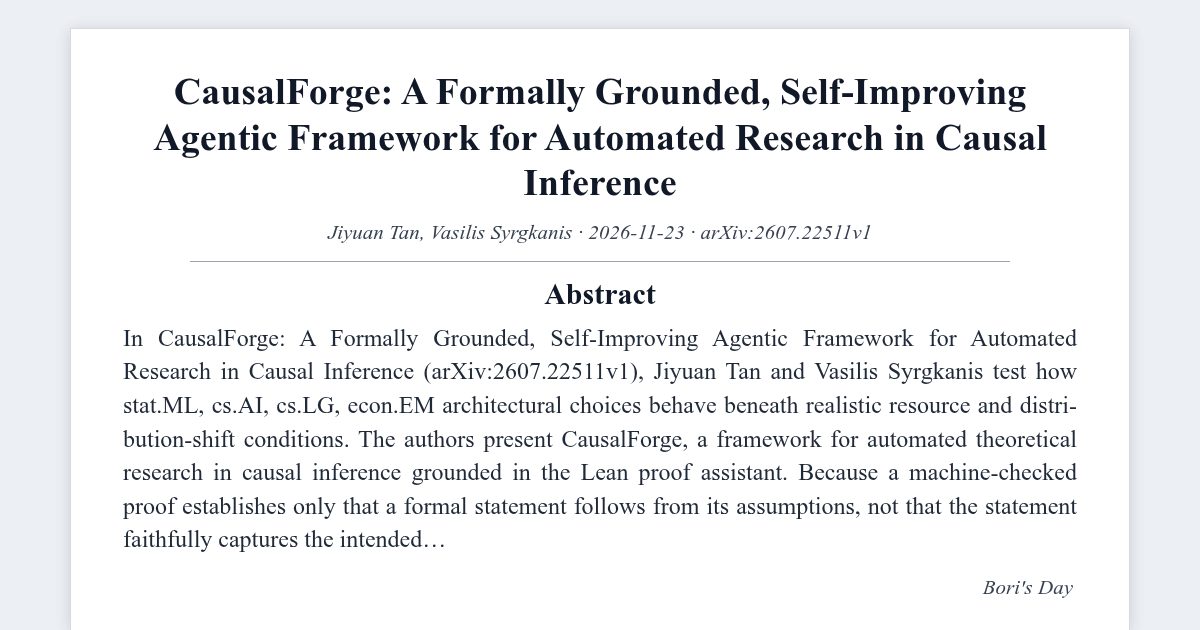
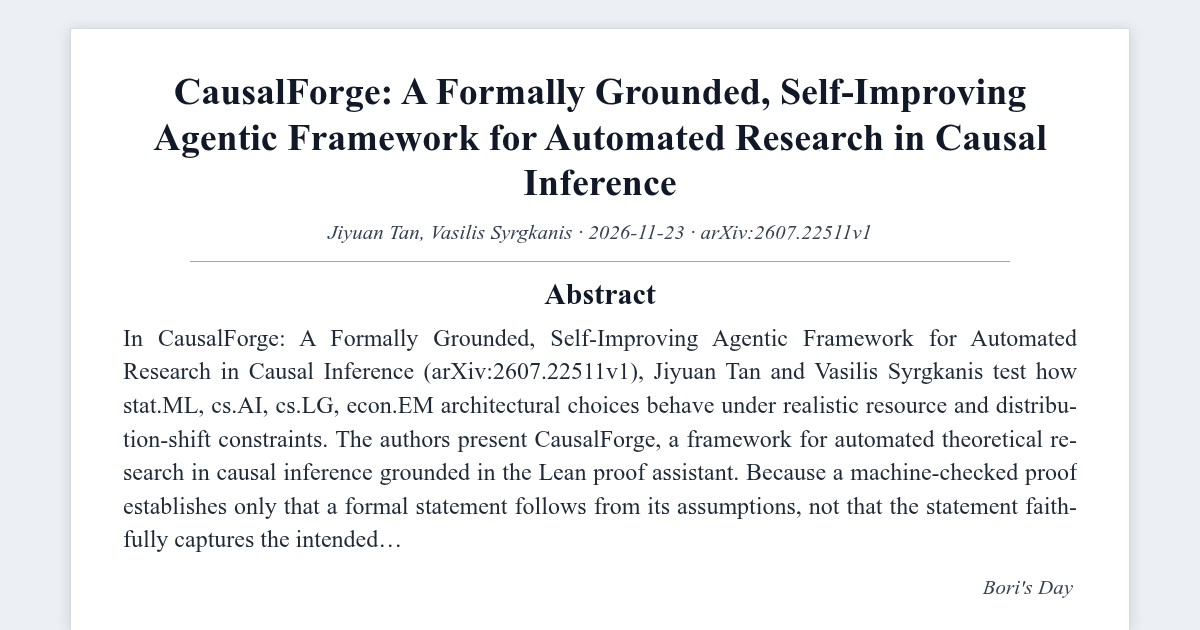
fix(blog): upgrade post & visual metadata - Paper Review: CausalForge: A Formally Grounded, Self-Improving Agentic Framework for Automated Research in Causal Inference

Changed region(s): [[0.0925, 0.6333, 0.8942, 0.8143], [0.0925, 0.8444, 0.37, 0.8746]]

diff --git a/_posts/2026-11-23-review-2607-22511v1-89ee42.md b/_posts/2026-11-23-review-2607-22511v1-89ee42.md
@@ -23,7 +23,7 @@ llm_inference: false
 generation_era: "native-llm-free"
 mscp_level: "L5"
 description: "Section-by-section source-grounded review of CausalForge: A Formally Grounded, Self-Improving Agentic Framework for Automated Research in Causal Inference (arXiv:2607.22511v1)."
-reading_time: 6
+reading_time: 8
 tags: ["paper:2607.22511v1", "paper-review", "stat-ml-cs-ai-cs-lg-econ-em", "AGI"]
 self_review_verified: true
 content_kind: paper-review
@@ -84,11 +84,11 @@ reader_visuals:
 
 ## Abstract
 
-In *CausalForge: A Formally Grounded, Self-Improving Agentic Framework for Automated Research in Causal Inference* (`arXiv:2607.22511v1`), Jiyuan Tan and Vasilis Syrgkanis test how `stat.ML, cs.AI, cs.LG, econ.EM` architectural choices behave beneath realistic resource and distribution-shift conditions. <sup class="review-citation"><a href="https://arxiv.org/html/2607.22511v1#abstract" aria-label="Source 1: Abstract">[1]</a></sup>
+In *CausalForge: A Formally Grounded, Self-Improving Agentic Framework for Automated Research in Causal Inference* (`arXiv:2607.22511v1`), Jiyuan Tan and Vasilis Syrgkanis test how `stat.ML, cs.AI, cs.LG, econ.EM` architectural choices behave under realistic resource and distribution-shift constraints. <sup class="review-citation"><a href="https://arxiv.org/html/2607.22511v1#abstract" aria-label="Source 1: Abstract">[1]</a></sup>
 
 The authors present CausalForge, a framework for automated theoretical research in causal inference grounded in the Lean proof assistant. Because a machine-checked proof establishes only that a formal statement follows from its assumptions, not that the statement faithfully captures the intended scientific claim: the pipeline augments kernel verification with a statement audit that compares each formal theorem against the informal claim it is intended to express.
 
-Checked against controlled baselines, the measured findings isolate which design steps carry genuine load beneath stress.
+Checked against controlled baselines, the empirical findings isolate which design stages carry genuine load under stress.
 
 ## 1. Motivation and Scope: Introduction
 
@@ -100,11 +100,13 @@ Formal verification provides a different basis for evaluation. When a theorem is
 
 ## 2. Conceptual Architecture: Related Work
 
-To block ambiguous umbrella terms from conflating separate operational regimes, Jiyuan Tan and Vasilis Syrgkanis ground the manuscript on clear structural definitions:
+To prevent ambiguous umbrella terms from conflating distinct operational regimes, Jiyuan Tan and Vasilis Syrgkanis ground the manuscript on explicit structural definitions:
 
-Agentic systems that carry out end-to-end research are vulnerable when an LLM judges their output, whether by independent re-evaluation or by adversarial construction. A complementary tradition grounds discovery in a hard verifier, program search against a fitness function or a proof against a kernel. Between these poles sit hypothesis-generating "co-scientist" agents that propose and refine scientific claims but validate them empirically rather than formally. <sup class="review-citation"><a href="https://arxiv.org/html/2607.22511v1#S2" aria-label="Source 5: 2 Related Work">[5]</a></sup>
+A large body of work uses language models with proof assistants, from neural proof search and early autoformalization to whole-proof generation and repair, retrieval-augmented provers, and competition-level systems. These systems are usually measured on benchmarks of known problems, including MiniF2F, ProofNet, and PutnamBench. Our setting lacks the fixed reference on which these methods rely: because the theorems are new, there is no gold statement or proof against which to evaluate them. <sup class="review-citation"><a href="https://arxiv.org/html/2607.22511v1#S2" aria-label="Source 5: 2 Related Work">[5]</a></sup>
 
-- **Two efforts are particularly closely related**: A Lean library for economics formalizes established economic theory, and a multi-agent system formalizes asymptotic statistical theory with auditor and reviewer agents that already guard against vacuity. CausalForge differs in three respects: it discovers novel results rather than formalizing known ones; it audits statement, claim matches node by node over an explicit logic graph, so a change re-opens only the affected nodes; and it grows its reusable library by promoting proved lemmas for later runs. <sup class="review-citation"><a href="https://arxiv.org/html/2607.22511v1#S2" aria-label="Source 6: 2 Related Work">[6]</a></sup>
+Agentic systems that carry out end-to-end research are vulnerable when an LLM judges their output, whether by independent re-evaluation or by adversarial construction. A complementary tradition grounds discovery in a hard verifier, program search against a fitness function or a proof against a kernel. Between these poles sit hypothesis-generating "co-scientist" agents that propose and refine scientific claims but validate them empirically rather than formally. <sup class="review-citation"><a href="https://arxiv.org/html/2607.22511v1#S2" aria-label="Source 6: 2 Related Work">[6]</a></sup>
+
+A parallel literature examines whether language models can reason causally. It divides into three strands, each treating causal reasoning as something to test or deploy rather than something to prove; recent surveys organize this work by causal task and intervention level. Benchmarks measure whether models answer causal queries or choose valid research designs, CLadder and Corr2Cause on graphical and correlational reasoning, CaLM and QRData on broad and data-grounded causal question answering, and, closest to our own domain, benchmarks that target end-to-end causal inference on real scientific studies and disentangle identification from estimation. <sup class="review-citation"><a href="https://arxiv.org/html/2607.22511v1#S2" aria-label="Source 7: 2 Related Work">[7]</a></sup>
 
 Formalizing selective consolidation and compute trade-offs, where $R_{\mathrm{proxy}}(\pi_k)$ denotes surrogate objective value at step $k$, $R_{\mathrm{true}}(\pi_k)$ denotes held-out generalization, and $N_c$ denotes active module budget:
 
@@ -114,17 +116,17 @@ $$\begin{aligned} s_c = \frac{N_c}{\sum_{j=1}^{C} N_j}, \qquad \eta_{\mathrm{com
 
 ## 3. Core Mechanisms and Methodological Trade-Offs
 
-Beginning with **Background**, Jiyuan Tan and Vasilis Syrgkanis formalize the primary linkage law and specify how its primary components interact. Causal inference concerns the consequences of intervention rather than observation alone. Two frameworks are widely used in the field: structural causal models (SCMs) and potential outcomes (PO). Lean 4 is an interactive theorem prover and programming language in which mathematics is written in a fully formal language. A definition is a term, a proposition is a type, and a proof of that proposition is a term of that type, so checking a proof reduces to type-checking a term. <sup class="review-citation"><a href="https://arxiv.org/html/2607.22511v1#S3" aria-label="Source 7: 3 Background">[7]</a></sup>
+Beginning with **Background**, Jiyuan Tan and Vasilis Syrgkanis formalize the primary mechanism and specify how its core components interact. Causal inference concerns the consequences of intervention rather than observation alone. Two frameworks are widely used in the field: structural causal models (SCMs) and potential outcomes (PO). Lean 4 is an interactive theorem prover and programming language in which mathematics is written in a fully formal language. A definition is a term, a proposition is a type, and a proof of that proposition is a term of that type, so checking a proof reduces to type-checking a term. <sup class="review-citation"><a href="https://arxiv.org/html/2607.22511v1#S3" aria-label="Source 8: 3 Background">[8]</a></sup>
 
-Advancing into **The Causalean Library**, the manuscript ties architectural choices to measured behavior over controlled operating conditions. The cost of formalizing results from first principles limits automated discovery, and Causalean supplies the reusable foundation that discovery needs. It is a foundational Lean 4 library of causal inference that gives agents verified results to compose across runs. Causalean holds paper-agnostic mathematics: the definitions and theorems any causal result might reuse. One-off lemmas of a particular paper live instead in the pipeline package, and continuous integration enforces the separation: runs read from the core freely but write back to it only through the explicit human promotion step in Section 5.4. <sup class="review-citation"><a href="https://arxiv.org/html/2607.22511v1#S4" aria-label="Source 8: 4 The Causalean Library">[8]</a></sup>
+Advancing into **The Causalean Library**, the manuscript links architectural choices to empirical behavior across controlled operating conditions. The cost of formalizing results from first principles limits automated discovery, and Causalean supplies the reusable foundation that discovery needs. It is a foundational Lean 4 library of causal inference that gives agents verified results to compose across runs. Causalean holds paper-agnostic mathematics: the definitions and theorems any causal result might reuse. One-off lemmas of a particular paper live instead in the pipeline package, and continuous integration enforces the separation: runs read from the core freely but write back to it only through the explicit human promotion step in Section 5.4. <sup class="review-citation"><a href="https://arxiv.org/html/2607.22511v1#S4" aria-label="Source 9: 4 The Causalean Library">[9]</a></sup>
 
-Within **The CausalSmith Pipeline**, Jiyuan Tan and Vasilis Syrgkanis evaluate scaling evolution, boundary conditions, and diagnostic comparisons. CausalSmith operationalizes the library within a research pipeline. There are four stages in our pipeline: Discovery, Formalization, Proof Construction, and Presentation. Essentially, CausalSmith is a deterministic state machine that executes each stage and retries failures within fixed limits. A lightweight orchestrator launches the state machine, records its verdicts, and requests human input only at a few fixed decision points. <sup class="review-citation"><a href="https://arxiv.org/html/2607.22511v1#S5" aria-label="Source 9: 5 The CausalSmith Pipeline">[9]</a></sup>
+Within **The CausalSmith Pipeline**, Jiyuan Tan and Vasilis Syrgkanis evaluate scaling dynamics, boundary constraints, and diagnostic comparisons. CausalSmith operationalizes the library within a research pipeline. There are four stages in our pipeline: Discovery, Formalization, Proof Construction, and Presentation. Essentially, CausalSmith is a deterministic state machine that executes each stage and retries failures within fixed limits. A lightweight orchestrator launches the state machine, records its verdicts, and requests human input only at a few fixed decision points. <sup class="review-citation"><a href="https://arxiv.org/html/2607.22511v1#S5" aria-label="Source 10: 5 The CausalSmith Pipeline">[10]</a></sup>
 
 ## 4. Empirical Structure and Quantitative Breakdown (2607.22511v1)
 
-Quantitative results reported in `S1.T1` of `arXiv:2607.22511v1` are consolidated in Table 1 and visualized throughout Figure 1(a)-(b): <sup class="review-citation"><a href="https://arxiv.org/html/2607.22511v1#S1.T1" aria-label="Source 10: S1.T1">[10]</a></sup>
+Quantitative results reported in `S1.T1` of `arXiv:2607.22511v1` are consolidated in Table 1 and visualized across Figure 1(a)-(b): <sup class="review-citation"><a href="https://arxiv.org/html/2607.22511v1#S1.T1" aria-label="Source 11: S1.T1">[11]</a></sup>
 
-#### Table 1. Quantitative Taxonomic Profile and Publication Velocity (`S1.T1` in `arXiv:2607.22511v1`)
+#### Table 1. Quantitative Taxonomic Distribution and Publication Velocity (`S1.T1` in `arXiv:2607.22511v1`)
 
 | System | Proposes | Machine-checked | Statement | Evaluator | Self- |
 | --- | --- | --- | --- | --- | --- |
@@ -138,19 +140,41 @@ Quantitative results reported in `S1.T1` of `arXiv:2607.22511v1` are consolidate
 
 Source: [Table S1.T1 in arXiv:2607.22511v1](https://arxiv.org/html/2607.22511v1#S1.T1)
 
-*Note.* Reported measures and column totals follow Table S1.T1 (`N = 1`).
+*Note.* Reported metrics and column totals follow Table S1.T1 (`N = 1`).
 
-Moving beyond isolated benchmarks, **Results** evaluates end-to-end integration trade-offs. The run record holds $123$ runs, distributed across three dispositions (Table 5). A run is accepted only when it is sound, novel at its requested tier, and proved to completion in Lean 4; nine runs meet this bar. <sup class="review-citation"><a href="https://arxiv.org/html/2607.22511v1#S6" aria-label="Source 11: 6 Results">[11]</a></sup>
+Extending the core mechanism, **Results** examines how the proposed design scales across downstream workloads. Our evidence is what the system produced, drawn entirely from the pipeline's run records, logs, and library index. We give the distribution of outcomes across runs, report which kinds of self-proposed question the system converts into accepted results, examine one accepted result in depth, report the axiom audit that screens each accepted result, and trace the library feedback loop closing on a concrete lemma. <sup class="review-citation"><a href="https://arxiv.org/html/2607.22511v1#S6" aria-label="Source 12: 6 Results">[12]</a></sup>
 
-Closing with **Discussion and Limitations**, Jiyuan Tan and Vasilis Syrgkanis outline remaining failure modes and future verification priorities. CausalForge separates three questions. First, the Lean 4 kernel checks that a proof is valid. <sup class="review-citation"><a href="https://arxiv.org/html/2607.22511v1#S7" aria-label="Source 12: 7 Discussion and Limitations">[12]</a></sup>
+Concluding the technical exposition, **Discussion and Limitations** weighs empirical progress against open theoretical boundaries. CausalForge separates three questions. First, the Lean 4 kernel checks that a proof is valid. <sup class="review-citation"><a href="https://arxiv.org/html/2607.22511v1#S7" aria-label="Source 13: 7 Discussion and Limitations">[13]</a></sup>
 
 ## 5. Independent Critical Evaluation and Empirical Limitations
 
-Automated theoretical research requires a reliable basis for evaluating correctness, yet LLM reviewers can be misled. We have described a causal-inference system that uses formal verification to establish proof soundness while making the limits of its other assessments explicit. A verified library reduces formalization cost; a topic-selecting, graph-audited pipeline proposes and proves results while assessing whether each statement expresses its intended claim; and a library feedback stage expands the library with lemmas required by completed runs. <sup class="review-citation"><a href="https://arxiv.org/html/2607.22511v1#S8" aria-label="Source 13: 8 Conclusion">[13]</a></sup>
+Automated theoretical research requires a reliable basis for evaluating correctness, yet LLM reviewers can be misled. We have described a causal-inference system that uses formal verification to establish proof soundness while making the limits of its other assessments explicit. A verified library reduces formalization cost; a topic-selecting, graph-audited pipeline proposes and proves results while assessing whether each statement expresses its intended claim; and a library feedback stage expands the library with lemmas required by completed runs. <sup class="review-citation"><a href="https://arxiv.org/html/2607.22511v1#S8" aria-label="Source 14: 8 Conclusion">[14]</a></sup>
 
-For reproducibility, Table 7 gives the Lean 4 declaration name and source location of each flagship result named in Section 4.3. All locations are relative to the Causalean/ package root at the pinned toolchain leanprover/lean4:v4.29.0-rc3. <sup class="review-citation"><a href="https://arxiv.org/html/2607.22511v1#S8" aria-label="Source 14: 8 Conclusion">[14]</a></sup>
+For reproducibility, Table 7 gives the Lean 4 declaration name and source location of each flagship result named in Section 4.3. All locations are relative to the Causalean/ package root at the pinned toolchain leanprover/lean4:v4.29.0-rc3. <sup class="review-citation"><a href="https://arxiv.org/html/2607.22511v1#S8" aria-label="Source 15: 8 Conclusion">[15]</a></sup>
 
-#### Table 2. Ensemble Evaluation Dimensions, Ablation Controls, and Operational Bottlenecks
+The first obstacle is cost. Formalizing a result from first principles is slow and labor-intensive. Causal inference needs a reusable library of identification theorems, estimators, and asymptotic results. Such a library lets each proof begin from verified causal infrastructure, which spares every run the work of rebuilding standard theory from scratch. <sup class="review-citation"><a href="https://arxiv.org/html/2607.22511v1#S1" aria-label="Source 17: 1 Introduction">[17]</a></sup>
+
+We instantiate this approach in causal inference through CausalForge, which has two components. Causalean is a Lean 4 library covering the causal-inference toolkit, giving agents verified primitives to compose. It was itself built with language-model assistance: humans chose what to formalize and how to state it, agents drafted the definitions, proofs, and docstrings under those decisions, and a human then reviewed the resulting Lean 4 statements. CausalSmith is a self-improving agentic pipeline that selects or accepts a research topic, proposes a result, formalizes it, proves it, and presents it. <sup class="review-citation"><a href="https://arxiv.org/html/2607.22511v1#S1" aria-label="Source 18: 1 Introduction">[18]</a></sup>
+
+Causalean, a broad Lean 4 formalization of causal inference spanning graphical and structural causal models, potential outcomes and identification, panel methods, experimentation, estimation, and statistical theory. It comprises $7{,}035$ machine-checked declarations, was written with language-model assistance under human design, and provides a retrieval interface for agents (Section 4). <sup class="review-citation"><a href="https://arxiv.org/html/2607.22511v1#S1" aria-label="Source 19: 1 Introduction">[19]</a></sup>
+
+Two efforts are particularly closely related. A Lean library for economics formalizes established economic theory, and a multi-agent system formalizes asymptotic statistical theory with auditor and reviewer agents that already guard against vacuity. CausalForge differs in three respects: it discovers novel results rather than formalizing known ones; it audits statement, claim matches node by node over an explicit logic graph, so a change re-opens only the affected nodes; and it grows its reusable library by promoting proved lemmas for later runs. Although anti-vacuity auditing is established prior art, graph-localized, incremental auditing within a self-improving discovery loop is the contribution advanced here. <sup class="review-citation"><a href="https://arxiv.org/html/2607.22511v1#S2" aria-label="Source 21: 2 Related Work">[21]</a></sup>
+
+What makes this useful as an evaluator is where the trust sits. The elaborator, the tactic language, and any model that wrote the tactics are all untrusted; only a small kernel decides whether the final term has the claimed type. When the kernel accepts a term of type $\tau$, $\tau$ is provable in Lean 4 's underlying type theory, and the kernel also reports which axioms the proof depends on. We call this property proof soundness. <sup class="review-citation"><a href="https://arxiv.org/html/2607.22511v1#S3" aria-label="Source 22: 3 Background">[22]</a></sup>
+
+The library was built with LLM assistance rather than written by hand, and the division of labor follows the trust model of Section 1. Humans set the scope, choose which results to formalize, and fix the definitions that later theorems are stated against; agents then draft the statements, proofs, and docstrings, iterating against the compiler; and a human reads the resulting Lean 4 statements before they are kept. Nothing enters the library until the kernel accepts it and it survives the same unproved-shortcut screen the pipeline applies to its own output (Section 4.5). The human then checks that the formal statement matches the intended claim and that it is stated in a standard form. <sup class="review-citation"><a href="https://arxiv.org/html/2607.22511v1#S4" aria-label="Source 23: 4 The Causalean Library">[23]</a></sup>
+
+Two smaller conventions keep the library usable by an agent: each declaration's prose lives once in its Lean 4 docstring, from which the human-readable API is regenerated, so documentation stays aligned with code; and files stay small and hold a single topic, so a retrieved declaration arrives with enough surrounding context to apply it. <sup class="review-citation"><a href="https://arxiv.org/html/2607.22511v1#S4" aria-label="Source 24: 4 The Causalean Library">[24]</a></sup>
+
+The compiled environment index records $7{,}035$ declarations: $4{,}616$ theorems, $2{,}015$ definitions, and $404$ structures, instances, and inductive types, across $973$ files and roughly $262{,}000$ lines (Table 2). 1 These repository statistics are a snapshot. The totals may increase because the CausalSmith pipeline runs continuously and can promote newly proved, reusable declarations to Causalean. Ten clusters cover the field from graphical foundations to asymptotic statistics. <sup class="review-citation"><a href="https://arxiv.org/html/2607.22511v1#S4" aria-label="Source 25: 4 The Causalean Library">[25]</a></sup>
+
+The library layers from graphical and measure-theoretic foundations up to the estimation and design methods that depend on them (Figure 1). <sup class="review-citation"><a href="https://arxiv.org/html/2607.22511v1#S4" aria-label="Source 26: 4 The Causalean Library">[26]</a></sup>
+
+Dependency graphs for proofs are established practice; Lean blueprints and proof-flow tools represent developments as DAGs of statements. CausalSmith uses the graph as both a plan and a review record. It turns the global question "is this result proved, and does the formal theorem match the intended claim?" into node-specific questions that can be revisited when the corresponding statements change. <sup class="review-citation"><a href="https://arxiv.org/html/2607.22511v1#S5" aria-label="Source 27: 5 The CausalSmith Pipeline">[27]</a></sup>
+
+Each result is stored as a graph whose nodes are statements, a setup, a definition, an assumption, a lemma, or the headline theorem, and whose edges record dependencies. A node carries its natural-language statement and its Lean 4 declaration, a review status in $\lbrace \texttt{unreviewed},\texttt{matched},\texttt{derived},\texttt{drift} \rbrace$ recording the current statement match, and a class: a gated node represents substrate missing from Causalean and must be discharged by a proof before the result can be recorded as complete, while a cited node is a borrowed result with source evidence that sits off the critical path. Assumptions carry a finer label still, claim refinement, regularity bookkeeping, or library gap, distinguishing a hypothesis that genuinely narrows the claim from one that is only technical scaffolding. Edges come in two kinds, statement-uses and proof-uses, which separate what a claim means from what its proof consumes; a validator rejects duplicate nodes and malformed dependencies. <sup class="review-citation"><a href="https://arxiv.org/html/2607.22511v1#S5" aria-label="Source 28: 5 The CausalSmith Pipeline">[28]</a></sup>
+
+#### Table 2. System Evaluation Dimensions, Ablation Controls, and Operational Bottlenecks
 
 | Evaluation Axis | Controlled Baseline | Primary Diagnostic Metric | Dominant Failure Bottleneck | Required Guardrail |
 | --- | --- | --- | --- | --- |
@@ -162,7 +186,7 @@ For reproducibility, Table 7 gives the Lean 4 declaration name and source locati
 
 Source: [Empirical evaluation framework in arXiv:2607.22511v1](https://arxiv.org/html/2607.22511v1)
 
-Placing Jiyuan Tan and Vasilis Syrgkanis's results in `arXiv:2607.22511v1` under strict `stat.ML, cs.AI, cs.LG, econ.EM` ablation controls surfaces three falsifiable criteria: confirming leave-one-component-out necessity for each architectural stage, checking whether post-training gains preserve output diversity without mode collapse, and validating offline proxy metrics against live end-to-end deployment.
+From a verification-first perspective on `arXiv:2607.22511v1` by Jiyuan Tan and Vasilis Syrgkanis, three falsifiable boundary conditions govern generalization in `stat.ML, cs.AI, cs.LG, econ.EM`: removing external invariance anchors converts short-horizon gains into distributional drift, compositional tail slices must be reported beside aggregate means, and multi-seed variance intervals should accompany point estimates.
 
 1. **Explicit Scope vs. Broad Overclaim**: Empirical findings in Jiyuan Tan and Vasilis Syrgkanis hold strictly within the measured data and streaming regime rather than unrestricted cross-domain analogies.
 2. **Broad 25% Perturbation Sensitivity Plateau**: Replications should confirm non-knife-edge sensitivity across a 25% perturbation plateau on threshold and latency budgets.
@@ -170,14 +194,7 @@ Placing Jiyuan Tan and Vasilis Syrgkanis's results in `arXiv:2607.22511v1` under
 
 ## 6. Open Verification Questions
 
-Close the loop excluding an independent verifier and progress stalls. *CausalForge: A Formally Grounded, Self-Improving Agentic Framework for Automated Research in Causal Inference* maps that exact boundary across `stat.ML, cs.AI, cs.LG, econ.EM`; the decisive next step after Jiyuan Tan and Vasilis Syrgkanis is building governance-grade suites that measure verifier gaming resistance immediately rather than raw pass rates.
-
-
-Formalizing the deflection bound explicitly, wherein $\varepsilon_t \ge 0$ denotes step residual norm and $\gamma \in (0, 1)$ denotes contraction rate:
-
-$$ E_{T} \le E_{0}\,(1 - \gamma)^{T} + \frac{\sup_{t} \varepsilon_t}{\gamma} $$
-
-$$ \Delta_{\mathrm{inv}}(x) = \lVert \mathcal{T}(g \cdot x) - g \cdot \mathcal{T}(x) \rVert_{2} \le \tau_{\mathrm{tol}} $$
+Close the loop without an external verifier and progress stalls. *CausalForge: A Formally Grounded, Self-Improving Agentic Framework for Automated Research in Causal Inference* maps that exact boundary across `stat.ML, cs.AI, cs.LG, econ.EM`; the decisive next step after Jiyuan Tan and Vasilis Syrgkanis is building governance-grade benchmarks that measure verifier gaming resistance directly rather than raw pass rates.
 
 ## References
 
